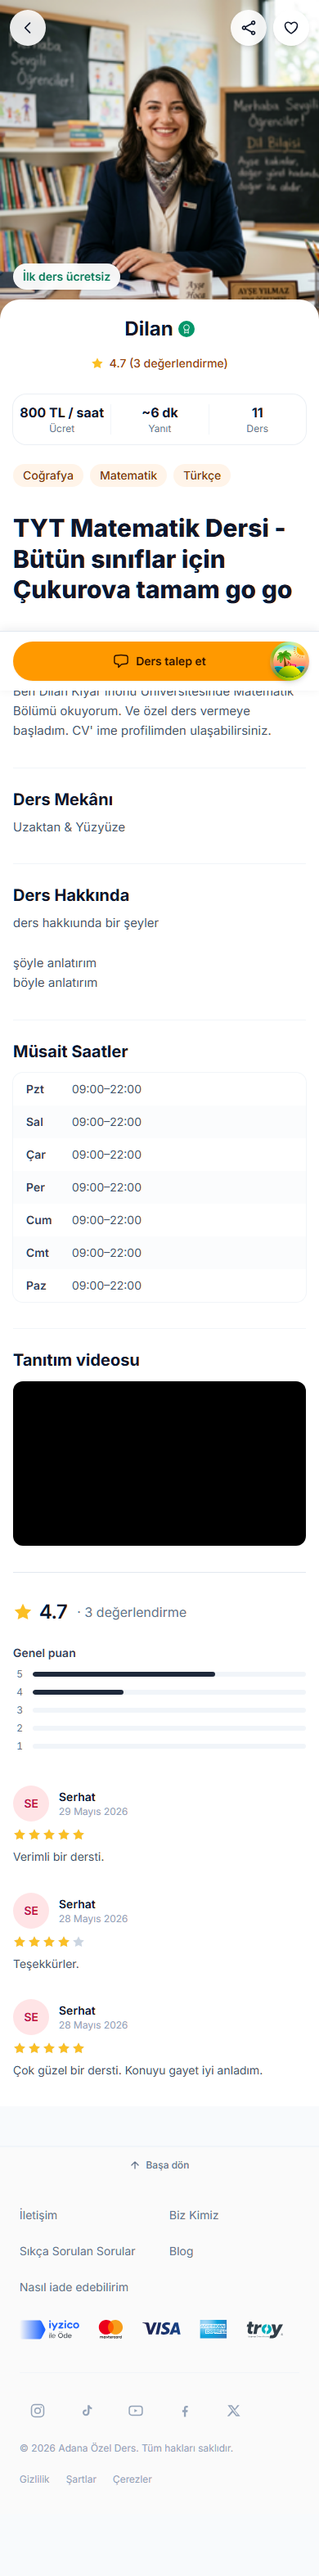
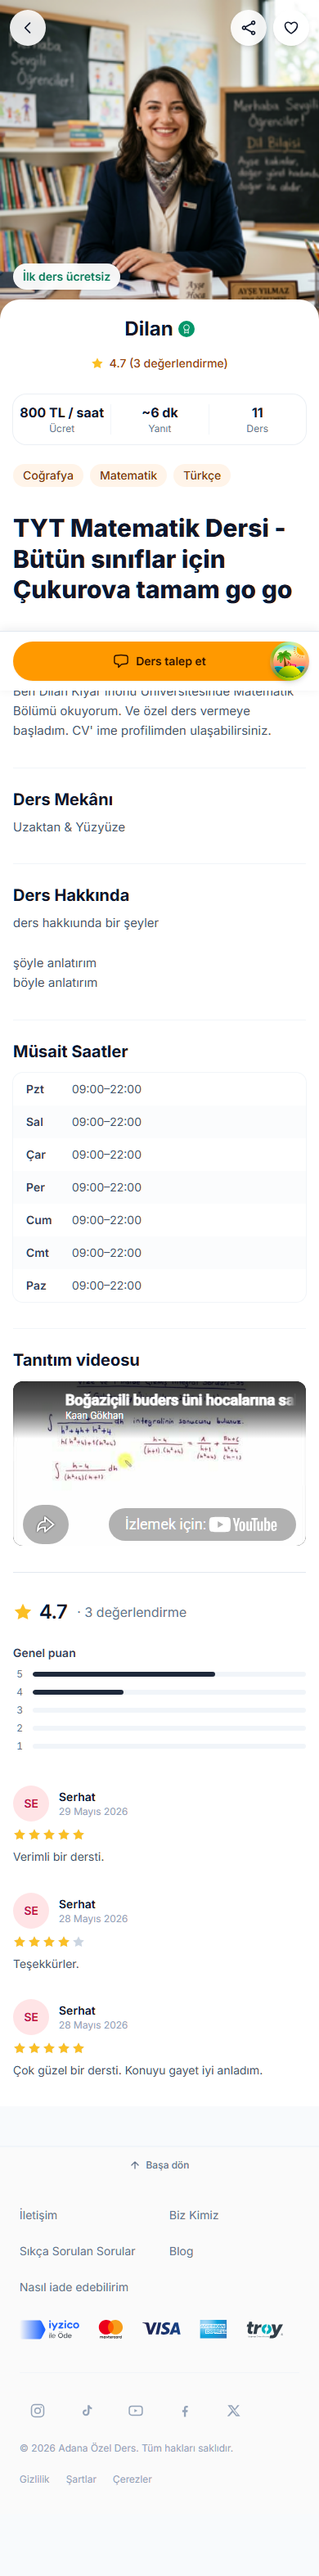
fix(kesif): kategori geçişi ARAMA DEĞİLDİR — filtreler ve sonuçlar aramaya bağlandı
Kullanıcı: *"filtre işlemi arama yapılınca olur, kütüphane kategorisine geçince
değil. Eğitmenlere tıklayınca arama sonuçları gözüküyor; ana sayfadayken
kategori değiştirirken arama sonucu gösterilmeyecek."*

Haklı ve kusur ikiye ayrılıyordu.

## 1. Kütüphaneler'e geçince filtre şeridi çıkıyordu

Kategori değiştiren kişi KEŞFE geliyor. Önüne sıralama çipleri, "Filtreler"
düğmesi ve Liste/Harita anahtarı koymak, sormadığı bir sorunun cevabını
göstermek. Üstelik altında hem keşif şeritleri hem de sorgusuz bir sonuç
ızgarası birlikte duruyordu.

Artık `/kutuphaneler` adreste bir arama/filtre YOKKEN yalnız keşif şeritlerini
basıyor; filtre şeridi, sayaç, Liste/Harita ve sonuç ızgarası ancak `filtreli`
olunca beliriyor. Ana sayfanın eğitmen vitriniyle simetrik oldu.

## 2. Eğitmenler'e tıklayınca arama sonuçlarına gidiyordu

Kategori hedefi `/egitmenler`di — yani sorgusuz bir sonuç ekranı. Hedef artık
kökteki eğitmen vitrini (`ROUTES.home`). `/egitmenler` aramanın kendi adresi
olarak duruyor ve oraya arama hapından gidiliyor.

YAN KAZANÇ: `/` ve `/kutuphaneler` aynı keşif kabuğunun çocukları olduğu için
artık İKİ YÖN de üst barı yerinde bırakıyor. Önceki commit'te açık kalan
"Eğitmenler'e basınca ekran yeniden kuruluyor" maddesi bu kararla kendiliğinden
kapandı.

## Ölçüm (gerçek Chrome, 390px)

    / → /kutuphaneler        header AYNI düğüm, kayıp 0, üst bar 136px
    /kutuphaneler → / (Eğitmenler)  header AYNI düğüm, kayıp 0, üst bar 136px
[…]

Changed region(s): [[0.0308, 0.5292, 0.9846, 0.6226]]

diff --git a/frontend/src/pages/Libraries.tsx b/frontend/src/pages/Libraries.tsx
@@ -231,24 +231,30 @@ export default function Libraries() {
 
   const content = (
     <>
-      {/* FİLTRE ŞERİDİ TELEFONDA GÖVDEDE (10 Eyl 2026).
-          Navbar'ın `bottom` yuvasının `md:hidden`ı YOKTUR, yani şerit orada
-          telefonda da çiziliyordu. Ama telefon kromu artık ana sayfayla aynı
-          (hap + kategori çipleri) ve şeridi o yığına eklemek üst barı 136'dan
-          ~181 piksele çıkarıyordu — iki rota ikiz olmaktan çıkardı ve tavan
-          (140) aşılırdı.
+      {/* FİLTRE ŞERİDİ — YALNIZ ARAMA/FİLTRE VARKEN (kullanıcı kararı,
+          10 Eyl 2026).
 
-          Çözüm: telefonda şerit üst barın PARÇASI değil, içeriğin ilk
-          yapışkan satırı. Kaydırınca üst barın altına yapışır; `--yapiskan-ust`
-          kabuklar tarafından yayınlanıyor (`PublicShell`, `DashboardShell`) ve
-          bu onun ilk gerçek tüketicisi. Zemin ve alt çizgi `PublicNavbar` ile
-          bilerek aynı: göz onu üst barın devamı olarak okur. */}
-      <div
-        className="-mx-4 mb-3 border-b border-slate-100 bg-[#fafafa]/85 backdrop-blur-md sticky z-20 sm:-mx-6"
-        style={{ top: "var(--yapiskan-ust, 0px)" }}
-      >
-        {filterBar}
-      </div>
+          > *"filtre işlemi arama yapılınca olur, kütüphane kategorisine
+          >  geçince değil."*
+
+          Kategori değiştirmek bir arama DEĞİLDİR. Ana sayfadan Kütüphaneler'e
+          geçen kişi keşfe gelmiştir; önüne sıralama ve olanak filtreleri
+          koymak, sormadığı bir sorunun cevabını göstermektir. Şerit bir
+          arama/filtre adreste yaşadığı anda belirir.
+
+          Şerit üst barın PARÇASI DEĞİL, içeriğin ilk yapışkan satırı: navbar'ın
+          `bottom` yuvasını keşif kabuğu (arama hapı) devraldı, ayrıca şeridi o
+          yığına koymak üst barı 136'dan ~181 piksele çıkarıp `/` ile ikizliği
+          bozuyordu. Konumunu `--yapiskan-ust`tan alır; zemin ve alt çizgi
+          `PublicNavbar` ile bilerek aynı — göz onu üst barın devamı okur. */}
+      {filtreli && (
+        <div
+          className="-mx-4 mb-3 border-b border-slate-100 bg-[#fafafa]/85 backdrop-blur-md sticky z-20 sm:-mx-6"
+          style={{ top: "var(--yapiskan-ust, 0px)" }}
+        >
+          {filterBar}
+        </div>
+      )}
       <div className="mx-auto max-w-[1100px] space-y-5">
         <Seo
           title="Kütüphaneler ve Etüt Merkezleri"
@@ -276,6 +282,13 @@ export default function Libraries() {
           </div>
         )}
 
+        {/* ── ARAMA SONUÇLARI — yalnız arama/filtre varken ──
+            Filtre yokken bu blok HİÇ çizilmez: kategori değişimi ana sayfanın
+            eğitmen vitrini gibi bir KEŞİF yüzeyi açar, arama sonucu değil.
+            Liste/Harita anahtarı, sayaç, ızgara ve sayfalama sonuca aittir;
+            ortada sonuç yokken hepsi anlamsızdır. */}
+        {filtreli && (
+        <>
         {/* ── Liste/Harita geçişi ── */}
         <div className="flex flex-wrap items-end justify-end gap-3">
           {/* Liste / Harita geçişi */}
@@ -354,6 +367,8 @@ export default function Libraries() {
               </div>
             )}
           </>
+        )}
+        </>
         )}
 
         {/* ── Filtre modalı (olanaklar) ── */}

diff --git a/frontend/src/components/CategoryBar.tsx b/frontend/src/components/CategoryBar.tsx
@@ -26,8 +26,25 @@ type Category = {
   gizli?: boolean;
 };
 
+/*
+ * KATEGORİ HEDEFLERİ = O KATEGORİNİN KEŞİF YÜZEYİ (kullanıcı kararı,
+ * 10 Eyl 2026).
+ *
+ * > *"eğitmenlere tıklayınca arama sonuçları gözüküyor; ana sayfadayken
+ * >  kategori değiştirirken arama sonucu gösterilmeyecek."*
+ *
+ * "Eğitmenler" eskiden `/egitmenler`e, yani ARAMA SONUÇLARI ekranına
+ * gidiyordu. Kategori değiştirmek bir arama değildir: kullanıcı keşfe
+ * geliyor, sorgusuz bir sonuç listesine değil. Hedef artık kökteki eğitmen
+ * vitrini; `/egitmenler` aramanın kendi adresi olarak kalır ve oraya arama
+ * hapından gidilir.
+ *
+ * Yan kazanç: `/` ve `/kutuphaneler` aynı keşif kabuğunun çocukları olduğu
+ * için iki yön de artık üst barı yerinde bırakıyor.
+ * Nöbetçi: `__guards__/aramaSekmesiGezinir.test.tsx`.
+ */
 const CATEGORIES: Category[] = [
-  { key: "egitmenler", label: "Eğitmenler", icon: "/icons/categories/egitmenler.webp", to: ROUTES.tutors },
+  { key: "egitmenler", label: "Eğitmenler", icon: "/icons/categories/egitmenler.webp", to: ROUTES.home },
   { key: "kutuphaneler", label: "Kütüphaneler", icon: "/icons/categories/kutuphaneler.webp", to: ROUTES.libraries, donuk: !KUTUPHANELER_ACIK },
   // Deneme oturumları kütüphane profillerinde yer alır. Kütüphaneler'den farklı
   // olarak donuk-görünür DEĞİL, kapalıyken tamamen gizli; bayrak açılınca döner.
@@ -58,6 +75,8 @@ const CATEGORIES: Category[] = [
  * üretir ve ön yükleme boşa gider.
  */
 const ONYUKLEYICILER: Record<string, () => Promise<unknown>> = {
+  // `ROUTES.home` YOK: `Landing` eager import edilir (prerender/SEO hedefi),
+  // ön yüklenecek ayrı bir parça da yoktur.
   [ROUTES.tutors]: () => import("@/pages/MarketplacePage"),
   [ROUTES.libraries]: () => import("@/pages/Libraries"),
   [ROUTES.store]: () => import("@/pages/store/StorePage"),

diff --git a/frontend/src/__guards__/aramaSekmesiGezinir.test.tsx b/frontend/src/__guards__/aramaSekmesiGezinir.test.tsx
@@ -71,10 +71,22 @@ describe("kategori sekmesi · gerçek gezinme", () => {
     expect(adres()).toBe(ROUTES.libraries);
   });
 
-  it("Eğitmenler'e tıklamak adresi `/egitmenler` yapar", () => {
-    sar();
+  it("Eğitmenler'e tıklamak KEŞİF yüzeyine (`/`) götürür, arama sonucuna DEĞİL", () => {
+    /*
+     * HEDEF 10 Eyl 2026'da DEĞİŞTİ (kullanıcı kararı), iddia zayıflamadı.
+     *
+     * Eskiden `/egitmenler`e, yani sorgusuz bir ARAMA SONUÇLARI ekranına
+     * gidiyordu. Kullanıcı: *"ana sayfadayken kategori değiştirirken arama
+     * sonucu gösterilmeyecek."* Kategori değiştirmek arama yapmak değildir;
+     * hedef artık kökteki eğitmen vitrini. `/egitmenler` aramanın kendi
+     * adresi olarak durur ve oraya arama hapından gidilir.
+     */
+    sar("kutuphaneler");
     fireEvent.click(screen.getByText("Eğitmenler"));
-    expect(adres()).toBe(ROUTES.tutors);
+    expect(adres()).toBe(ROUTES.home);
+    expect(adres(), "kategori hâlâ arama sonucuna götürüyor").not.toBe(
+      ROUTES.tutors
+    );
   });
 
   it("aktif sekme `aria-current=page` taşır (görsel değil anlamsal)", () => {

diff --git a/frontend/src/__guards__/bolumDondurma.test.tsx b/frontend/src/__guards__/bolumDondurma.test.tsx
@@ -87,9 +87,12 @@ describe("ÖN KOŞUL — bayrak değerleri", () => {
 describe("A — kategori çubuğu (gerçek DOM)", () => {
   it("NÖBETÇİ: çubuk render oluyor; Eğitmenler ve Kütüphaneler GERÇEK bağlantı", () => {
     sar(<CategoryBar />);
+    // Eğitmenler hedefi 10 Eyl 2026'da `/egitmenler`den `/`e çekildi:
+    // kategori değiştirmek arama yapmak değildir, hedef o kategorinin KEŞİF
+    // yüzeyidir (kullanıcı kararı — bkz. `CategoryBar` içindeki gerekçe).
     expect(
       screen.getByRole("link", { name: /Eğitmenler/ }).getAttribute("href")
-    ).toBe("/egitmenler");
+    ).toBe("/");
     expect(
       screen.getByRole("link", { name: /Kütüphaneler/ }).getAttribute("href")
     ).toBe("/kutuphaneler");
@@ -126,7 +129,7 @@ describe("A — kategori çubuğu (gerçek DOM)", () => {
     ).toEqual([]);
 
     for (const [etiket, hedef] of [
-      ["Eğitmenler", "/egitmenler"],
+      ["Eğitmenler", "/"],
       ["Kütüphaneler", "/kutuphaneler"],
       ["Mağaza", "/magaza"],
     ] as const) {
